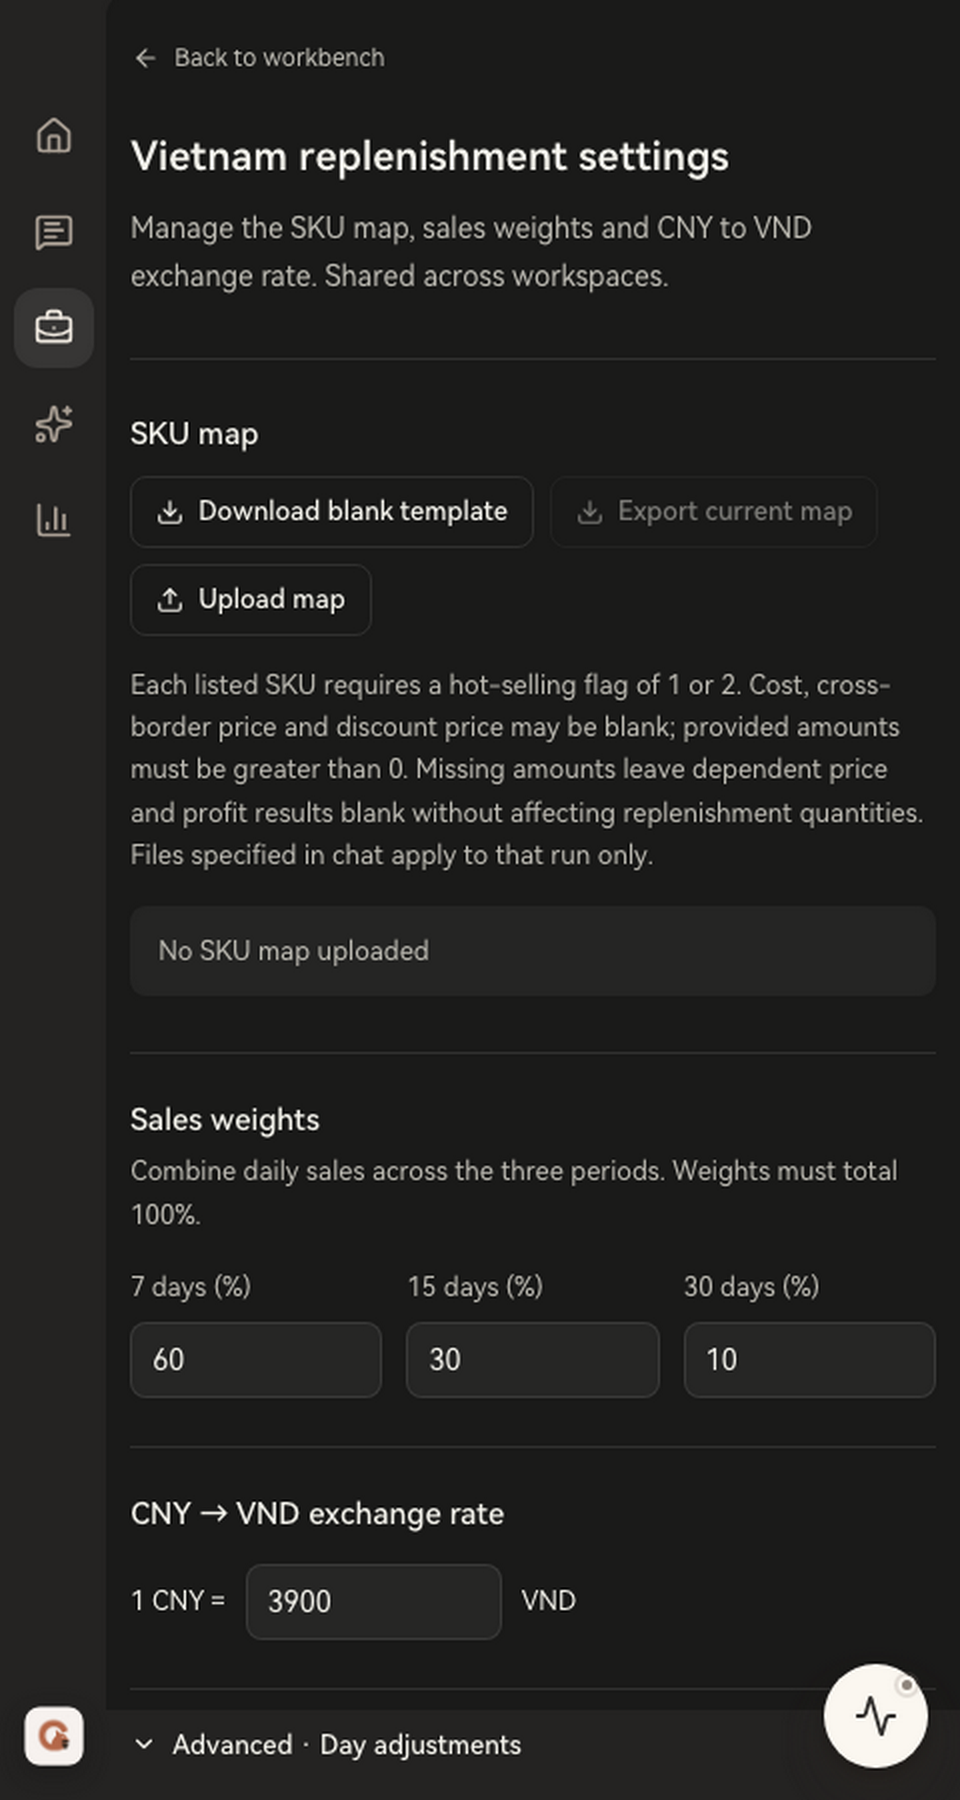
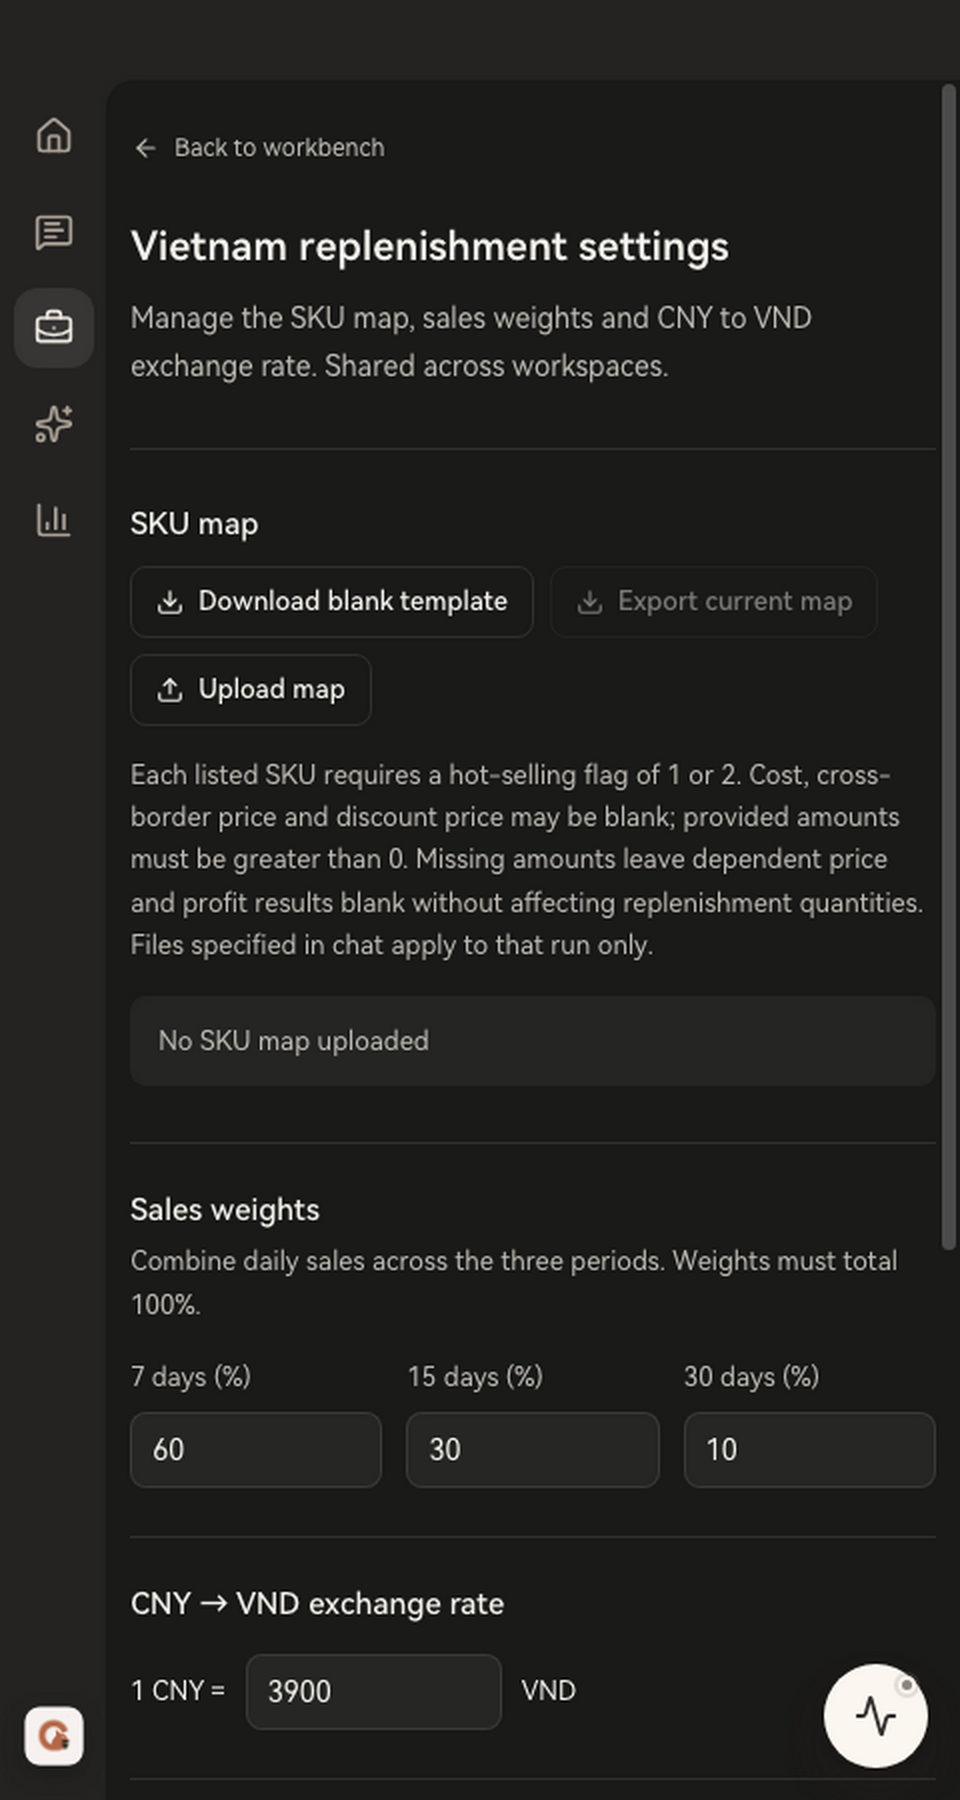
fix: contain narrow workbench pages within their themed surface

diff --git a/apps/dashboard/src/features/workbench/index-theme.css b/apps/dashboard/src/features/workbench/index-theme.css
@@ -5,6 +5,8 @@
 .content-panel.workbench-theme {
   padding: 32px 36px 80px;
   background: var(--cds-surface-panel);
+  /* Keep long workflows inside their surface at narrow window widths too. */
+  overflow: auto;
 }
 .workbench-theme .workbench-index { width: min(1160px, 100%); gap: 32px; }
 .workbench-theme .workbench-index-header {

diff --git a/docs/design/cds/examples/workbench-details.md b/docs/design/cds/examples/workbench-details.md
@@ -35,7 +35,7 @@
 
 ## 实现与检查
 
-- [共享页面标题](../../../../apps/dashboard/src/features/workbench/page-header.tsx)和[三个子页面的主题样式](../../../../apps/dashboard/src/features/workbench/detail-theme.css)。`.workbench-theme` 从目录扩展到全部工作台页面；目录徽章样式收窄，避免误影响保存提示。
+- [共享页面标题](../../../../apps/dashboard/src/features/workbench/page-header.tsx)和[三个子页面的主题样式](../../../../apps/dashboard/src/features/workbench/detail-theme.css)。`.workbench-theme` 从目录扩展到全部工作台页面；目录徽章样式收窄，避免误影响保存提示。窄窗口也由内容面板滚动，防止长页面越过底色和圆角边界。
 - [设置页](../../../../apps/dashboard/src/features/workbench/vietnam-settings-view.tsx)、[媒体流程](../../../../apps/dashboard/src/features/workbench/view.tsx)、[文件版本页](../../../../apps/dashboard/src/features/workbench/input-assets-view.tsx)。数据读写接口、参数换算、媒体任务与取消机制保持原有实现。
 - [新增 Electron 检查](../../../../apps/dashboard/test/behavior/workbench-details.cjs)：深浅主题、480px 英文布局、局部表格滚动、进度与任务状态、资产刷新等待／失败／恢复、按文件标识打开目录。原有设置与媒体流程测试继续覆盖保存、导出、扫描、取消和输出。
 
